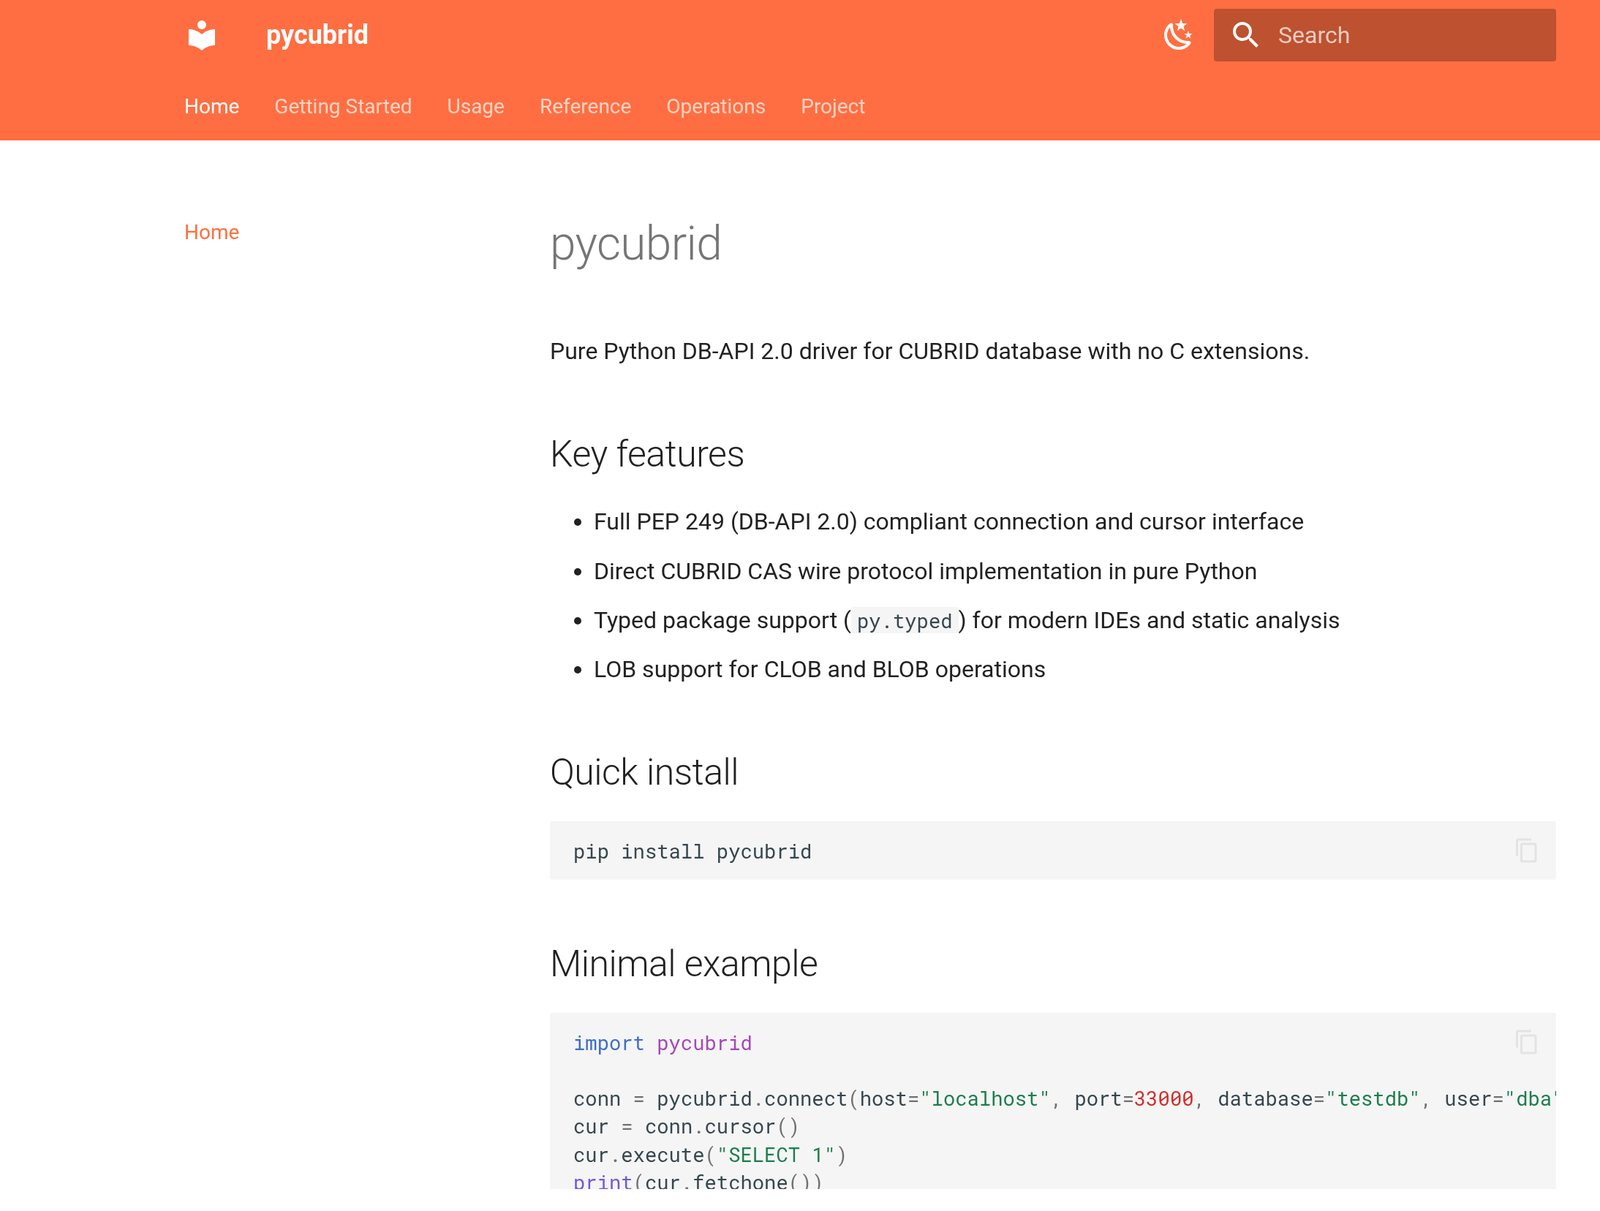
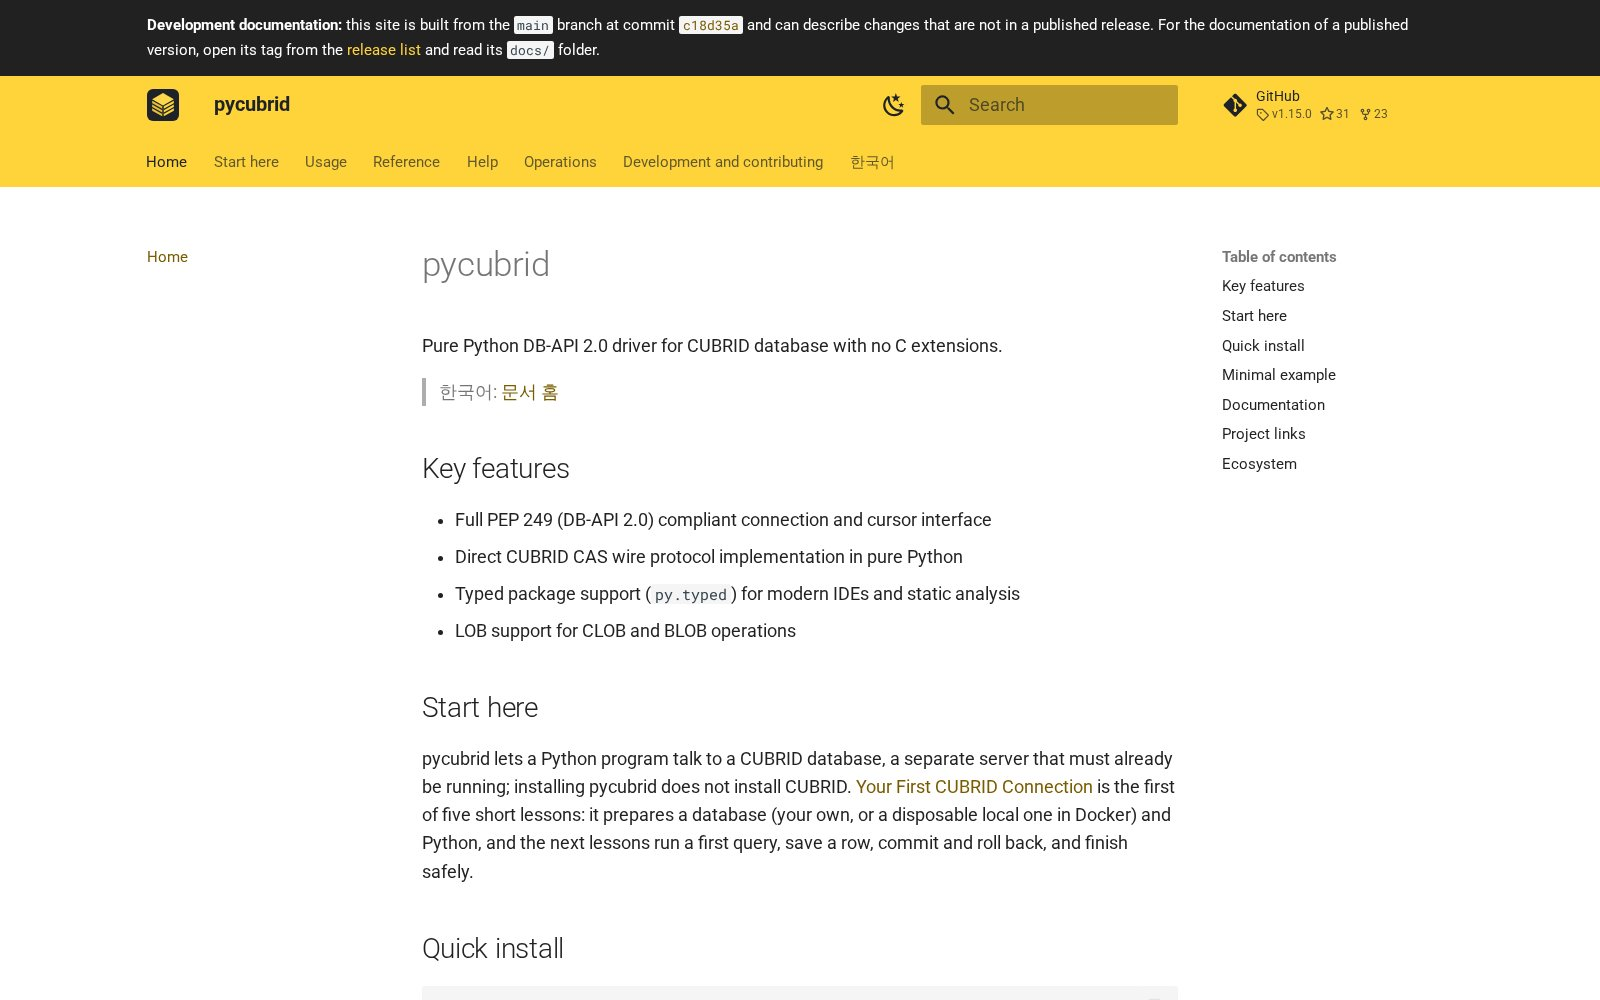
docs(ossdevcon): show the yellow documentation sites
The four documentation sites now use the Python yellow (pycubrid#1103,
sqlalchemy-cubrid#1093, cubrid-mcp-server#498,
cubrid-cookbook-python#538). Slide 11 shows all four as a 2x2 grid
under "문서 4개 사이트", and slide 13 shows the cubrid-mcp-server docs
instead of its GitHub page. Screenshots were captured from the live
sites on 2026-10-28.

diff --git a/presentation/decks/2026-ossdevcon/slides.md b/presentation/decks/2026-ossdevcon/slides.md
@@ -327,8 +327,18 @@ TLS 암호화와 대용량 데이터도 지원하고, 테스트와 커버리지 
       <li><b>문서 4개 사이트</b> · 한국어 포함</li>
     </ul>
   </div>
-  <figure class="shot clip"><img src="/shots/docs-pycubrid.jpg" alt="pycubrid 문서 사이트"></figure>
+  <div class="docs-grid">
+    <figure class="shot"><img src="/shots/docs-pycubrid.jpg" alt="pycubrid 문서 사이트"></figure>
+    <figure class="shot"><img src="/shots/docs-sqlalchemy-cubrid.jpg" alt="sqlalchemy-cubrid 문서 사이트"></figure>
+    <figure class="shot"><img src="/shots/docs-mcp.jpg" alt="cubrid-mcp-server 문서 사이트"></figure>
+    <figure class="shot"><img src="/shots/docs-cookbook.jpg" alt="cubrid-cookbook-python 문서 사이트"></figure>
+  </div>
 </div>
+
+<style>
+.docs-grid { display: grid; grid-template-columns: 1fr 1fr; gap: 10px; }
+.docs-grid .shot { box-shadow: 0 8px 18px -10px rgba(15, 27, 45, 0.35); border-radius: 8px; }
+</style>
 
 <!--
 [20초 · 활용성]
@@ -377,7 +387,7 @@ TLS 암호화와 대용량 데이터도 지원하고, 테스트와 커버리지 
       <li><b>감사 로그</b> — tool 사용 기록</li>
     </ul>
   </div>
-  <figure class="shot clip"><img src="/shots/repo-mcp.jpg" alt="cubrid-mcp-server 저장소"></figure>
+  <figure class="shot clip"><img src="/shots/docs-mcp.jpg" alt="cubrid-mcp-server 문서 사이트"></figure>
 </div>
 
 <!--
